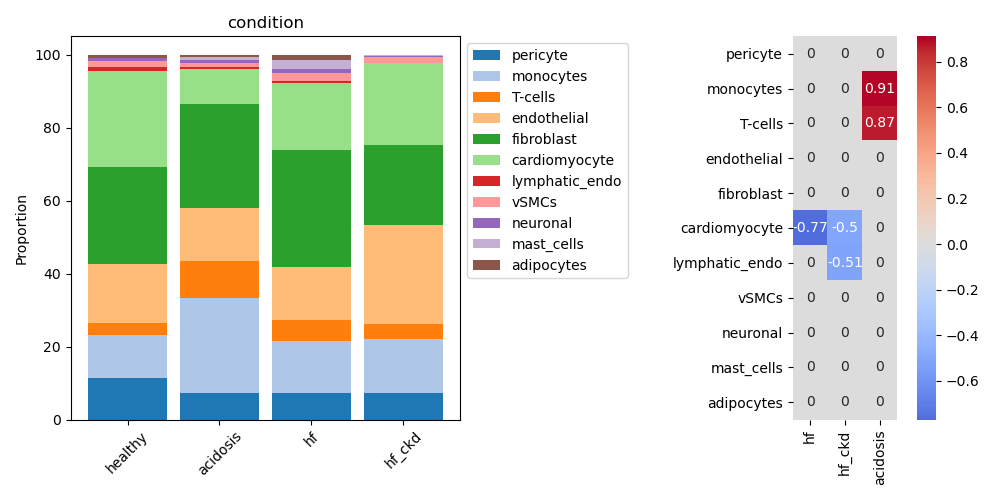
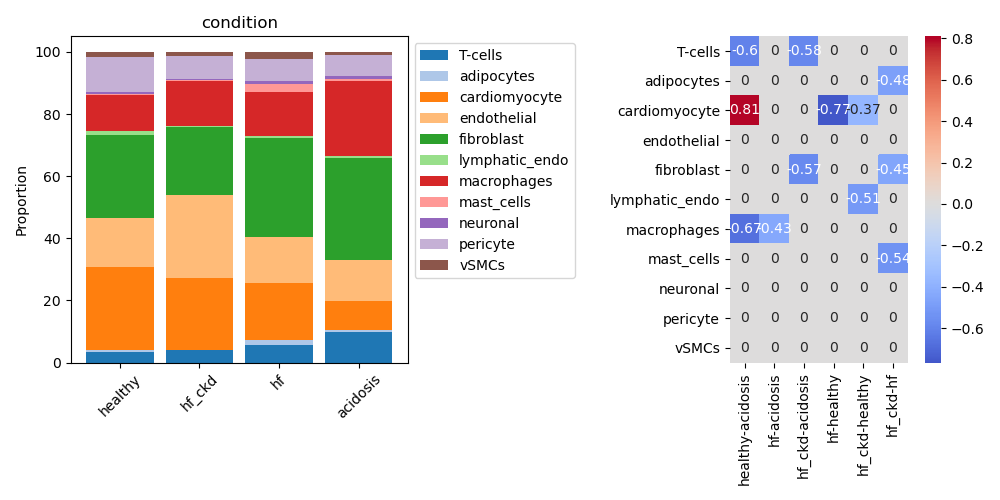
Refactor scCODA code

diff --git a/scripts/run_coda.py b/scripts/run_coda.py
@@ -5,40 +5,53 @@ import pandas as pd
 from sccoda.util import comp_ana as mod
 from sccoda.util import cell_composition_data as dat
 
-from utils import get_count_df
 
-
-# Define order of categories and reference cell type
-order_cat = ['healthy', 'hf', 'hf_ckd', 'acidosis']
+# Define reference cell type
 reference_cell_type = 'neuronal'
 
 # Read AnnData object
-input_path = '../qc_data/integrated.h5ad'
+input_path = '../qc_data/pseudobulk.h5ad'
 adata = sc.read_h5ad(input_path)
 
-# Get cell type count df
-df = get_count_df(adata, drop=['unknown'])
+# Get unique conditions
+conditions = np.unique(adata.obs['condition'])
+
+# Get scCODA input:
+# sample_id  condition  T-cells  adipocytes  cardiomyocyte
+# CK114      healthy    238      0           1246.0
+df = adata.obs.pivot(index=['sample_id','condition'], columns='cell_type', values='cell_num')
+df[np.isnan(df)] = 0
+df = df.rename(columns=str).reset_index()
+df.columns.name = None
 
 # Create scCODA AnnData object
 data = dat.from_pandas(df, covariate_columns=['sample_id', 'condition'])
-data.obs['condition'] = data.obs['condition'].astype('category').cat.reorder_categories(order_cat)
 
 # Initialize empty df
 eff_df = pd.DataFrame(columns=data.var.index)
 
 # Test effects for each condition that is not healthy
-for cond in order_cat[1:]:
-    # Select control and condition data
-    data_cond = data[data.obs["condition"].isin(["healthy", cond])]
-    model_cond = mod.CompositionalAnalysis(data_cond, formula="condition", reference_cell_type=reference_cell_type)
-    # Run MCMC
-    sim_results = model_cond.sample_hmc()
-    # Add to df
-    eff_df.loc[cond] = sim_results.summary_prepare()[1].reset_index(level=[0])['Final Parameter']
+for i,cond_a in enumerate(conditions):
+    for j,cond_b in enumerate(conditions):
+        if i < j:
+            contrast = '{0}-{1}'.format(cond_b, cond_a)
+            print(contrast)
+            
+            # Select control and condition data
+            data_cond = data[data.obs["condition"].isin([cond_a, cond_b])]
+            data_cond.obs['condition'] = data_cond.obs['condition'].astype(str)
+            data_cond.obs['condition'] = data_cond.obs['condition'].astype('category').cat.reorder_categories([cond_a, cond_b])
+            model_cond = mod.CompositionalAnalysis(data_cond, formula="condition", reference_cell_type=reference_cell_type)
+            
+            # Run MCMC
+            sim_results = model_cond.sample_hmc()
+            
+            # Add to df
+            eff_df.loc[contrast] = sim_results.summary_prepare()[1].reset_index(level=[0])['Final Parameter']
 
 # Add effects to adata object
 adata.uns['coda'] = eff_df.T
 
 
 # Write to file
-adata.write('../qc_data/integrated.h5ad')
+adata.write('../qc_data/pseudobulk.h5ad')

diff --git a/scripts/plotting.py b/scripts/plotting.py
@@ -43,10 +43,12 @@ def plot_ncell_diff(data, ax, labels, n_rem, fontsize=11):
     ax.set_xlabel('Number of cells removed', fontsize=fontsize)
     ax.tick_params(axis='x', rotation=45)
     
+    
 def plot_ngene_diff(adata, ax, fontsize=11):
     ax.set_title('Num genes filtered', fontsize=fontsize)
     ax.bar(x="Before", height=adata.uns['hvg']['ngene'])
     ax.bar(x="After", height=adata.shape[1])
+    
     
 def plot_hvg_nbatches(data, ax, fontsize=11):
     for nbatches in np.flip(np.unique(data.highly_variable_nbatches)):
@@ -54,30 +56,14 @@ def plot_hvg_nbatches(data, ax, fontsize=11):
         ax.bar(str(nbatches), num, color="gray")
     ax.set_title('Num shared HVG by num samples',fontsize=fontsize)
     
+    
 def plot_sorted_rank(data, col, ax, fontsize=11):
     xdim = np.arange(len(data))
     ysort = np.flip(np.sort(data[col]))
     ax.set_title('Ranked {0}'.format(col), fontsize=fontsize)
     ax.plot(xdim, ysort, c='grey')
-    
-def get_count_df(adata, drop=[]):
-    df = adata.obs[['sample_id', 'condition', 'cell_type']]
-    # Count per sample and per cell type
-    num_dict = dict()
-    cell_types = np.unique(df['cell_type'])
-    for _,row in df.iterrows():
-        sample_id = row['sample_id']
-        condition = row['condition']
-        cell_type = row['cell_type']
-        num_dict.setdefault(sample_id, {'condition':condition})
-        num_dict[sample_id].setdefault(cell_type, 0)
-        num_dict[sample_id][cell_type] += 1
-    # Transform to df
-    df = pd.DataFrame(num_dict).T.fillna(value=0).rename_axis("sample_id").reset_index()
-    if len(drop) != 0:
-        df = df.drop(drop, axis=1)
-    return df
 
+    
 def stacked_barplot(data, feature_name, ax, cmap=cm.tab20):
     # cell type names
     type_names = data.var.index

diff --git a/scripts/run_coda_plots.py b/scripts/run_coda_plots.py
@@ -3,17 +3,20 @@ import numpy as np
 import pandas as pd
 
 from sccoda.util import cell_composition_data as dat
-from utils import *
+from plotting import stacked_barplot
 
 import matplotlib.pyplot as plt
 import seaborn as sns
 
 # Read AnnData object
-input_path = '../qc_data/integrated.h5ad'
+input_path = '../qc_data/pseudobulk.h5ad'
 adata = sc.read_h5ad(input_path)
 
-# Load proportions
-df = get_count_df(adata, drop=['unknown'])
+# Get scCODA input:
+df = adata.obs.pivot(index=['sample_id','condition'], columns='cell_type', values='cell_num')
+df[np.isnan(df)] = 0
+df = df.rename(columns=str).reset_index()
+df.columns.name = None
 data = dat.from_pandas(df, covariate_columns=['sample_id', 'condition'])
 
 # Load eff df
